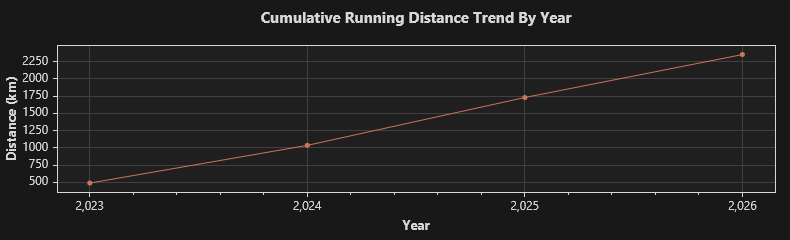
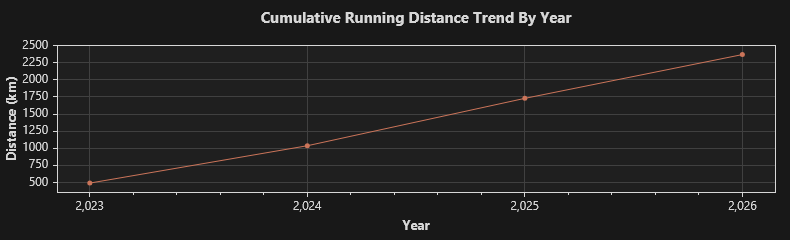
2026/11/3 跑步 6.18 公里

diff --git a/trend.md b/trend.md
@@ -1,4 +1,4 @@
-### Total: 398 days, 2349.4600000000000363797880709 km.
+### Total: 401 days, 2368.0999999999999090505298227 km.
 
 
 ![Monthly](https://github.com/prime167/MyRunningLog/blob/main/data/CumulativeTrendByMonth.png)
